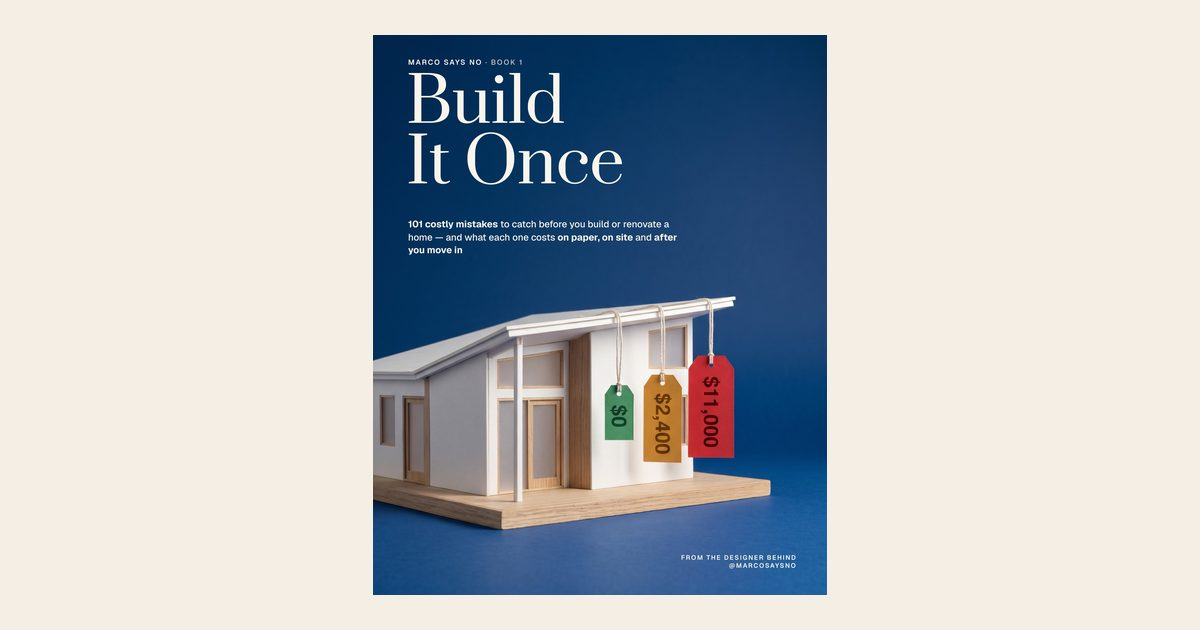
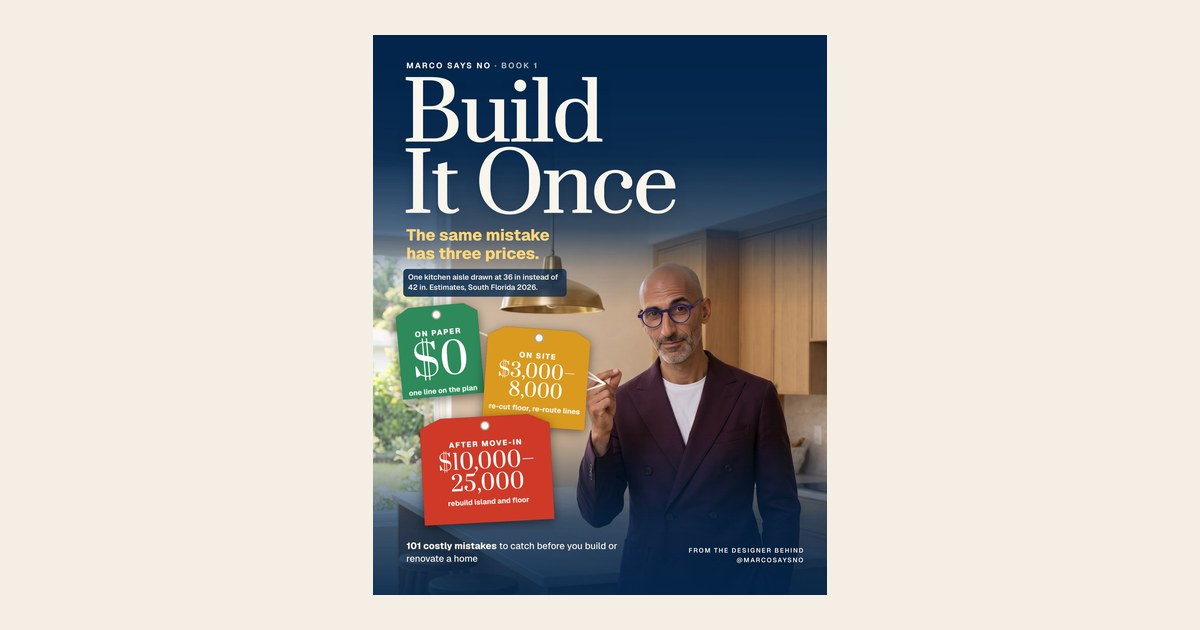
book: new cover (three prices), edition 2.0 page, footer link to /book

Changed region(s): [[0.3083, 0.0905, 0.7092, 0.9651]]

diff --git a/index.html b/index.html
@@ -1106,7 +1106,7 @@ header,.h-cta,.qz,.xi,.qz-opt,.qz-opt .ic,.qz-form input,.xi-form input,#ldPlan,
         </a>
         <p class="f-about" data-i18n="foot.about">Interior design studio — design, renovation coordination and Venetian plaster. One accountable team, from first sketch to final handover. Miami, Florida.</p>
       </div>
-      <div><p class="f-h" data-i18n="foot.h1">Main pages</p><ul><li><a href="/" data-i18n="foot.l1">Home</a></li><li><a href="#about" data-i18n="foot.l2">About us</a></li><li><a href="#projects" data-i18n="foot.l3">Portfolio</a></li><li><a href="#contact" data-i18n="foot.l4">Contact</a></li><li><a href="/miami-home-design-report-2026/" data-i18n="foot.report">Home design report 2026</a></li></ul></div>
+      <div><p class="f-h" data-i18n="foot.h1">Main pages</p><ul><li><a href="/" data-i18n="foot.l1">Home</a></li><li><a href="#about" data-i18n="foot.l2">About us</a></li><li><a href="#projects" data-i18n="foot.l3">Portfolio</a></li><li><a href="#contact" data-i18n="foot.l4">Contact</a></li><li><a href="/miami-home-design-report-2026/" data-i18n="foot.report">Home design report 2026</a></li><li><a href="/book/">Book: Build It Once</a></li></ul></div>
       <div><p class="f-h" data-i18n="foot.h2">Services</p><ul><li><a href="/interior-design/" data-i18n="svc1.h3">Interior Design &amp; 3D</a></li><li><a href="/condo-renovation/" data-i18n="svc2.h3">Renovation, Start to Handover</a></li><li><a href="/home-renovation/" data-i18n="foot.home">Full home renovation</a></li><li><a href="/venetian-plaster/" data-i18n="svc3.h3">Venetian Plaster</a></li><li><a href="#services" data-i18n="svc4.h3">New Homes &amp; Villas</a></li><li><a href="#services" data-i18n="svc5.h3">Technical Supervision</a></li><li><a href="/south-florida/" data-i18n="foot.areas">Areas we serve</a></li></ul></div>
       <div><p class="f-h" data-i18n="foot.h3">Contact us</p><ul><li><a href="mailto:hello@m5miami.com">hello@m5miami.com</a></li><li><a href="tel:+17868337401" onclick="if(window.m5track)m5track('phone_click',{placement:'footer'})"><span data-i18n="mb.call">Call</span> (786) 833-7401</a></li><li><a href="https://wa.me/17864074441" target="_blank" rel="noopener">WhatsApp +1 786 407 4441</a></li><li><a href="https://instagram.com/m5miami" target="_blank" rel="noopener">Instagram @m5miami</a></li><li><a href="/south-florida/">Miami-Dade · Broward · Palm Beach</a></li><li><a href="/privacy/" data-i18n="foot.privacy">Privacy Policy</a></li><li><a href="/terms/" data-i18n="foot.terms">Terms</a></li></ul></div>
     </div>

diff --git a/book/index.html b/book/index.html
@@ -193,7 +193,7 @@ window.addEventListener('load',function(){setTimeout(function(){(function(c,l,a,
       <p class="promise">Every mistake has three prices. <span>And one last cheap day.</span></p>
       <div class="status" id="hero-status">PDF edition out now</div>
       <div class="buy" id="hero-buy"><a class="btn btn-ink" id="pdf-btn" href="#" rel="noopener" onclick="if(window.m5track)m5track('book_pdf_click',{placement:'hero'})">Get the PDF edition · $24.99</a>
-        <p class="fine">330 pages, told by Marco himself. Instant download from his store, every updated edition included.</p></div>
+        <p class="fine">356 pages, told by Marco himself, with 65 room rules for an ordinary American house. Instant download from his store, every updated edition included.</p></div>
       <p class="paper" id="paper-line">Paperback on Amazon in January 2027</p>
       <div id="hero-action">
         <form class="wl f" id="wl-form" novalidate>
@@ -219,9 +219,9 @@ window.addEventListener('load',function(){setTimeout(function(){(function(c,l,a,
   <div class="wrap">
     <div class="label">Inside the book</div>
     <h2>What a page of the book looks like</h2>
-    <p class="lede">The same scale model, shot twice. One thing changes between the pictures: the mistake. Then the three prices, the last cheap day, and one question to read out loud.</p>
+    <p class="lede">A photograph of a real-looking home with the size printed on it, often with Marco standing in it to show the measure. The wrong way and the right way sit small beside it. Then the three prices, the last cheap day, and one question to read out loud.</p>
     <ul class="how">
-      <li><b>Two pictures</b>Wrong and right, side by side.</li>
+      <li><b>The picture</b>A real-looking home with the size on it. Wrong and right, small, beside it.</li>
       <li><b>Three prices</b>On paper, on site, after move-in.</li>
       <li><b>One last cheap day</b>The milestone after which the fix climbs a step.</li>
       <li><b>One question</b>To ask your builder, engineer or agent.</li>

diff --git a/client/index.html b/client/index.html
@@ -10,7 +10,7 @@
 <link rel="preconnect" href="https://fonts.googleapis.com">
 <link rel="preconnect" href="https://fonts.gstatic.com" crossorigin>
 <link href="https://fonts.googleapis.com/css2?family=Geist:wght@300..900&family=Space+Mono:wght@400;700&display=swap" rel="stylesheet" media="print" onload="this.media='all'">
-<link rel="stylesheet" href="/start.css?v=1795532071">
+<link rel="stylesheet" href="/start.css?v=1795546121">
 <script>window.M5_HOOK='https://script.google.com/macros/s/AKfycbw_Hwj1am3WSzgrTZTdnH_OWEmzUuC0r2MDouOWvd_Jv-DiawgG1BvpMM3QwO0XeM54yw/exec';
 window.m5hook=function(p){try{if(!window.M5_HOOK||M5_HOOK.indexOf('http')!==0)return;var s=JSON.stringify(p||{});if(navigator.sendBeacon){navigator.sendBeacon(M5_HOOK,s)}else{fetch(M5_HOOK,{method:'POST',mode:'no-cors',keepalive:true,body:s})}}catch(e){}}</script>
 <script defer src="/analytics.js"></script>
